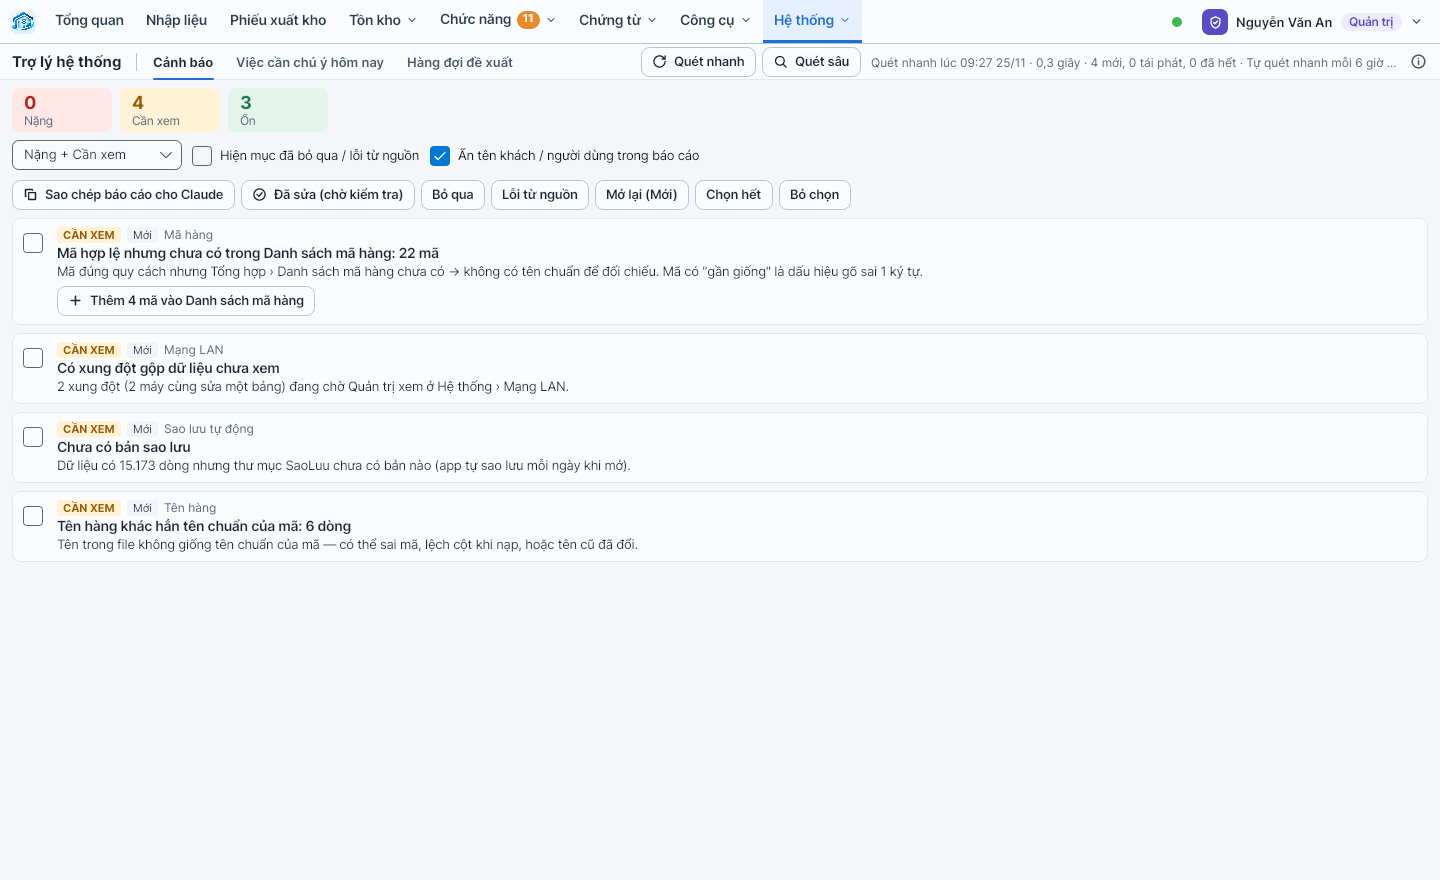
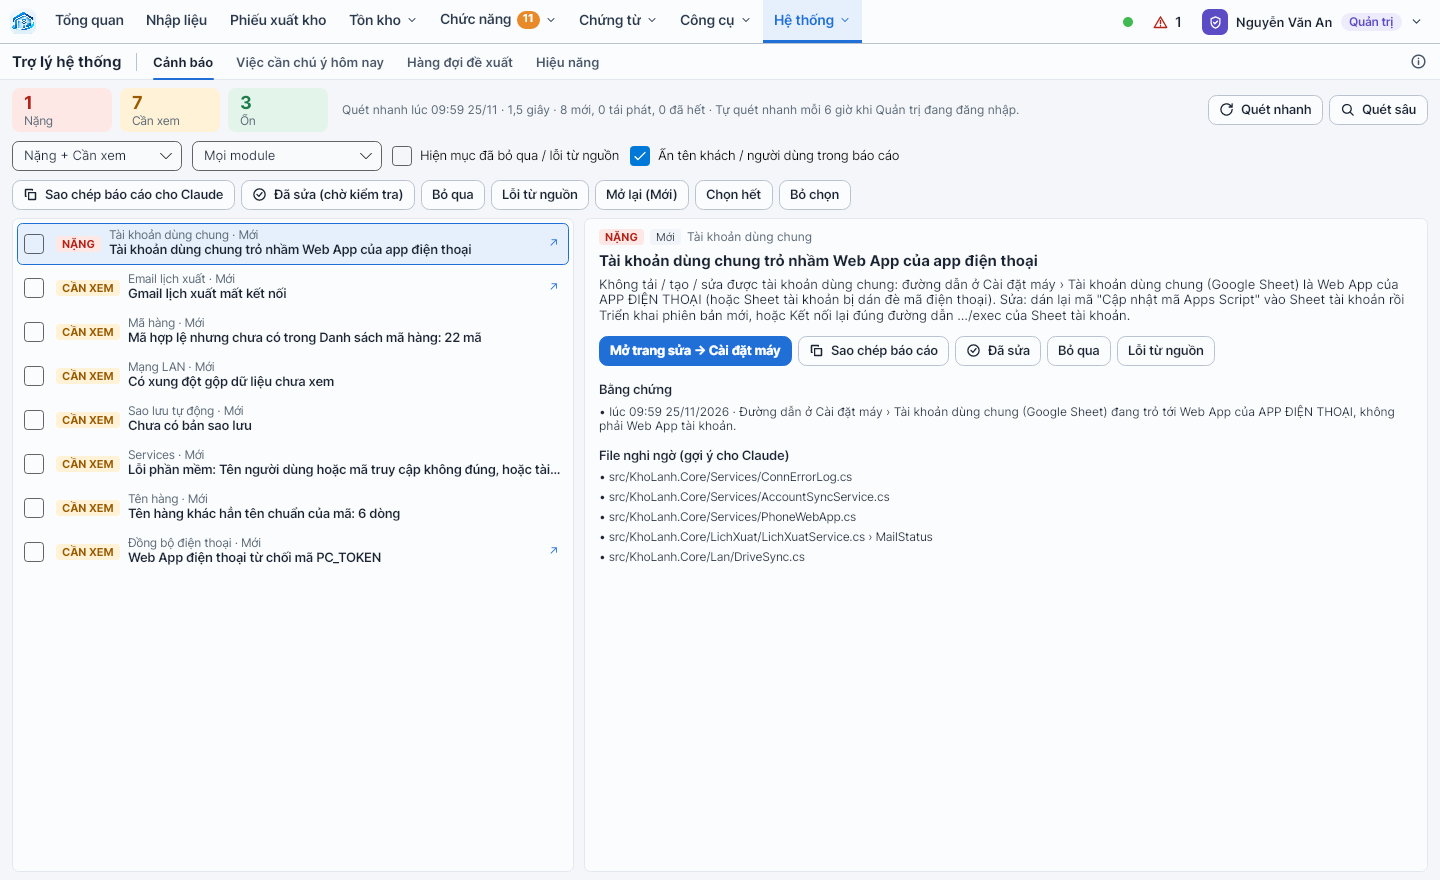
1.101.0: Trợ lý thông minh hơn (giai đoạn 3) — cấu hình kết nối, gộp lỗi theo nguyên nhân gốc, cảnh báo hiệu năng, Cảnh báo trái – chi tiết phải
- Kiểm tra cấu hình kết nối (Tài khoản dùng chung trỏ nhầm Web App điện thoại,
  PC_TOKEN sai, Gmail mất kết nối, thư mục Drive không còn) + nút Mở trang sửa.
- Gộp lỗi trùng theo nguyên nhân gốc (đếm số lần + các nơi phát sinh).
- Cảnh báo hiệu năng: CPU / RAM cao kéo dài, RAM KhoLanh bất thường, ổ sắp đầy,
  chậm dần sau cập nhật, mở app / đăng nhập chậm dần.
- Tab Cảnh báo: danh sách trái – chi tiết phải, lọc theo module; nút Quét ở
  hàng thẻ số (không còn bị ẩn ở 1366×768).

Claude-Session: https://claude.ai/code/session_01CcL5zKPX6MXqPbz7cZL3gY

diff --git a/src/KhoLanh.App/Views/TroLyView.CanhBao.cs b/src/KhoLanh.App/Views/TroLyView.CanhBao.cs
@@ -44,7 +44,13 @@ public sealed partial class TroLyView
         foreach (var c in filters.Children) c.VerticalAlignment = VerticalAlignment.Center;
 
         var findTop = new StackPanel { Spacing = 8, Margin = new Thickness(0, 0, 0, 8) };
-        findTop.Children.Add(_kpi); findTop.Children.Add(filters); findTop.Children.Add(actions);
+        var kpiRow = new DockPanel();   // 1.101: thẻ số + dòng trạng thái quét
+        var scan = new StackPanel { Orientation = Orientation.Horizontal, Spacing = 6, VerticalAlignment = VerticalAlignment.Center };
+        scan.Children.Add(_quick); scan.Children.Add(_deep);
+        DockPanel.SetDock(scan, Dock.Right); kpiRow.Children.Add(scan);
+        DockPanel.SetDock(_kpi, Dock.Left); kpiRow.Children.Add(_kpi);
+        _status.Margin = new Thickness(14, 0, 0, 0); _status.Tag = "keep"; kpiRow.Children.Add(_status);
+        findTop.Children.Add(kpiRow); findTop.Children.Add(filters); findTop.Children.Add(actions);
 
         // danh sách | chi tiết — danh sách hẹp hơn, chi tiết đủ chỗ đọc bằng chứng (màn hình 1366 px: ~520 | ~780)
         var left = new Border
@@ -177,7 +183,7 @@ public sealed partial class TroLyView
         var acts = new WrapPanel { ItemSpacing = 6, LineSpacing = 6, Margin = new Thickness(0, 6, 0, 2) };
         if (f.Go.Length > 0)
         {
-            var go = Btn("Mở trang sửa → " + f.GoLabel, () => MainWindow.Of(this)?.Navigate(f.Go), "Mở trang cài đặt liên quan để sửa cấu hình");
+            var go = Btn("Mở trang sửa → " + f.GoLabel, () => GoFix(f.Go), "Mở trang cài đặt liên quan để sửa cấu hình");
             go.Classes.Add("primary");
             acts.Children.Add(go);
         }
@@ -220,4 +226,17 @@ public sealed partial class TroLyView
     }
 
     private static TextBlock Section(string t) => new() { Text = t, FontWeight = FontWeight.SemiBold, FontSize = 12.5, Foreground = Dark, Margin = new Thickness(0, 8, 0, 0) };
+
+    /// <summary>1.101: "Mở trang sửa" — khóa menu thì chuyển trang; "#hieunang" thì sang tab Hiệu năng của Trợ lý.</summary>
+    private void GoFix(string go)
+    {
+        if (go == KhoLanh.Core.TroLy.TroLyService.GoHieuNang)
+        {
+            var tc = Avalonia.VisualTree.VisualExtensions.GetVisualDescendants(this).OfType<TabControl>()
+                .FirstOrDefault(t => t.Items.OfType<TabItem>().Any(i => KhoLanh.App.Controls.Icon.TextOf(i.Header) == "Hiệu năng"));
+            if (tc is not null) tc.SelectedItem = tc.Items.OfType<TabItem>().First(i => KhoLanh.App.Controls.Icon.TextOf(i.Header) == "Hiệu năng");
+            return;
+        }
+        MainWindow.Of(this)?.Navigate(go);
+    }
 }

diff --git a/src/KhoLanh.Core/TroLy/TroLyService.cs b/src/KhoLanh.Core/TroLy/TroLyService.cs
@@ -138,6 +138,7 @@ public sealed class TroLyService
         StepRun("Đồng bộ", () => f.AddRange(CheckSync(CollectSync(now))));
         StepRun("Cấu hình kết nối", () => f.AddRange(CheckConfig(CollectConfig())));
         StepRun("Thao tác chậm", () => f.AddRange(CheckSlow(Perf.Read(_dataDir, now))));
+        StepRun("Hiệu năng", () => f.AddRange(CheckPerf(now)));   // 1.101: CPU / RAM cao kéo dài, ổ sắp đầy, chậm dần sau cập nhật
 
         var st = LoadState();
         var fin = Sort(f);
@@ -460,6 +461,24 @@ public sealed class TroLyService
             if (dr.LastOk != default) info.DriveOkAgeMin = (now - dr.LastOk).TotalMinutes;
         }
         return info;
+    }
+
+    /// <summary>1.101: cảnh báo hiệu năng từ hieu-nang.db (bộ đo ngầm) + logs/cham.log 30 ngày. Chưa có số liệu thì không cảnh báo.</summary>
+    /// <summary>Khóa "trang sửa" đặc biệt: chuyển sang tab Hiệu năng của chính Trợ lý (không phải khóa menu).</summary>
+    public const string GoHieuNang = "#hieunang";
+    internal List<Finding> CheckPerf(DateTime now)
+    {
+        var res = new List<Finding>();
+        var path = Path.Combine(_dataDir, PerfStore.FileName);
+        var st = PerfMonitor.Current?.Store ?? (File.Exists(path) ? new PerfStore(path) : null);
+        if (st is not null)
+        {
+            res.AddRange(PerfChecks.CheckMachine(st.Range(now.AddHours(-1), now, 120), st.Latest(), now));
+            res.AddRange(PerfChecks.CheckStartupTrend(st.Marks(null, now.AddDays(-30)), now));
+        }
+        res.AddRange(PerfChecks.CheckSlowAfterUpdate(Perf.Read(_dataDir, now, 30)));
+        foreach (var x in res) if (x.Go.Length == 0) { x.Go = GoHieuNang; x.GoLabel = "tab Hiệu năng"; }
+        return res;
     }
 
     /// <summary>Cấu hình kết nối của máy: Tài khoản dùng chung, Web App điện thoại, Gmail lịch xuất, thư mục Drive dùng chung (CHỈ ĐỌC).</summary>

diff --git a/src/KhoLanh.App/Views/TroLyView.cs b/src/KhoLanh.App/Views/TroLyView.cs
@@ -49,11 +49,8 @@ public sealed partial class TroLyView : UserControl, IPage
         _filter.SelectionChanged += (_, _) => Render();
         _showSkipped.IsCheckedChanged += (_, _) => Render();
 
-        var top = new DockPanel();
-        var scanBtns = new StackPanel { Orientation = Orientation.Horizontal, Spacing = 6 };
-        scanBtns.Children.Add(_quick); scanBtns.Children.Add(_deep);
-        DockPanel.SetDock(scanBtns, Dock.Left); top.Children.Add(scanBtns);
-        _status.Margin = new Thickness(10, 0, 0, 0); top.Children.Add(_status);
+        // 1.101: nút Quét nhanh / Quét sâu + dòng trạng thái quét nằm ở hàng thẻ số của tab Cảnh báo (trước đặt trên hàng tên trang →
+        // ở 1366×768 không vừa nên bị ẩn mất)
 
         var chuYBox = Card("Việc cần chú ý hôm nay", _chuY, Btn("⟳", () => LoadChuY(), "Đọc lại"));
 
@@ -76,10 +73,8 @@ public sealed partial class TroLyView : UserControl, IPage
         tabs.Items.Add(new TabItem { Header = "Hiệu năng", Content = new HieuNangView() });   // 1.100: CPU / RAM / ổ đĩa / mạng, thao tác chậm, dung lượng dữ liệu
         tabs.SelectionChanged += (_, e) => { if (e.Source == tabs && tabs.SelectedItem == qTab) LoadQueue(); };
 
-        var head = new StackPanel { Spacing = 10, Margin = new Thickness(0, 0, 0, 8) };
-        head.Children.Add(top);   // thẻ số Nặng / Cần xem / Ổn nằm đầu tab Cảnh báo (1 hàng ở đây được kéo lên ngang tên trang)
         var body = new DockPanel();
-        DockPanel.SetDock(head, Dock.Top); body.Children.Add(head); body.Children.Add(tabs);
+        body.Children.Add(tabs);
         Content = body;
 
         Svc.Scanned += OnScanned;

diff --git a/CLAUDE.md b/CLAUDE.md
@@ -41,6 +41,7 @@ App quản lý kho lạnh **viết lại bằng C#** (.NET 8, Avalonia, SQLite) 
 | 1.39 | Tự tạo List / phiếu theo Lịch xuất (`PNX_AutoLog` dùng chung app cũ) | `LichXuat/LichXuatAuto.cs`, `PhieuKho/PhieuKhoAuto.cs` |
 | 1.40 | Danh mục mã hàng (quyền `m3dm`) | `DanhMuc/` |
 | 1.41 | Kiểm kê nhanh (tab đầu Đối chiếu kiểm kê) | `KiemKe/KkNhanh.cs`, `Views/KiemKeView.Nhanh.cs` |
+| 1.101 | Trợ lý giai đoạn 3 (luồng 2 agent worktree + luồng chính): `Services/ConnErrorLog` (settings `acct_last_error` / `phone_last_error`, ghi khi gọi lỗi, xóa khi thành công) ghi ở `AccountSyncService.PullAsync/CallAsync`, `PhoneWebApp.CallAsync`; `TroLyChecks.CheckConfig(ConfigInfo)` (`TroLyService.CollectConfig`, bước quét "Cấu hình kết nối") + `Finding.Go` / `GoLabel` (khóa menu trang sửa; `TroLyService.GoHieuNang` = "#hieunang" → tab Hiệu năng); `ParseErrorLog` gộp theo `RootCause` / `NormMsg` (id lỗi phần mềm đổi → lần quét đầu sau cập nhật lỗi cũ thành Đã đóng + Mới); `PerfChecks` (CheckMachine / CheckSlowAfterUpdate / CheckStartupTrend, bước quét "Hiệu năng" `TroLyService.CheckPerf`); `TroLyView` partial + `TroLyView.CanhBao.cs` (danh sách trái – chi tiết phải, lọc module, thẻ số + trạng thái + nút quét 1 hàng) | `ConnErrorLog.cs`, `TroLyChecks.cs`, `TroLyService.cs`, `PerfChecks.cs`, `TroLyView(.CanhBao).cs`, test `TroLyTests` (+3), `HieuNangTests` (+1), chụp `SHOTS_ONLY=he` (`he-tro-ly`, `he-tro-ly-1366`) |
 | 1.100 | Hiệu năng giai đoạn 1 + 2: lõi `TroLy/PerfStore` (SQLite `hieu-nang.db` trong thư mục dữ liệu: bảng `samples` mỗi phút + `marks` mốc thời gian; `Range` gộp ≤ N điểm theo khoảng đều, `Prune` 30 ngày, `Stat` trung vị) + `PerfLevel` (ngưỡng vàng / đỏ) · `PerfProbe` (CPU: Windows GetSystemTimes / Linux /proc/stat; KhoLanh: TotalProcessorTime; RAM: GlobalMemoryStatusEx / /proc/meminfo; ổ: DriveInfo; độ trễ: thời gian mở TCP) · `PerfMonitor` (Timer 1 phút, độ trễ mỗi 5 lượt tới `LanService.ServerAddress` + www.google.com:443, `Mark` / `MarkOp` — `Perf.Scope` gọi cho Đồng bộ LAN / Drive / điện thoại; `App.StartPerf` ở `App.Start`, mốc mở app = Process.StartTime → cửa sổ đăng nhập hiện, đăng nhập = bấm → cửa sổ chính) · `DbStats` (module_sheets theo db_key / sheet, sheet_history, audit_log) · giao diện `Views/HieuNangView` (tab Hiệu năng của TroLyView) + `Controls/PerfChart` (tự vẽ, đứt nét khi máy tắt) | `PerfStore.cs`, `PerfProbe.cs`, `PerfMonitor.cs`, `DbStats.cs`, `HieuNangView.cs`, `PerfChart.cs`, test `HieuNangTests`, chụp `SHOTS_ONLY=v200` (tự kiểm, Sáng + Tối) |
 | 1.99 | Xuất file không tự mở: `Ui.Exported(visual, path)` (thông báo `WindowNotificationManager` góc phải dưới, 10 s, bấm → `Ui.ShowInFolder` = explorer /select; khung thông báo mới tạo chờ `TemplateApplied` mới Show) thay 44 chỗ `Ui.OpenExternal` sau khi xuất; còn `OpenExternal` cho nút người dùng bấm + trang In (`PrintVia`, In chứng từ, phiếu NXT) · Trợ lý: trang = DockPanel (thanh quét kéo lên ngang tên trang) + tab Cảnh báo (thẻ số, lọc, danh sách có thanh cuộn riêng MinHeight 360) / Việc cần chú ý hôm nay / Hàng đợi · `AccountSyncService.PrefetchAsync` đánh dấu đã xem lỗi (ContinueWith OnlyOnFaulted) — cửa sổ đăng nhập `_ = PrefetchAsync()` lỗi → UnobservedTaskException | `Ui.cs`, 26 View, `TroLyView.cs`, `AccountSyncService.cs`, test `Tai_ngam_loi_khong_thanh_loi_chua_bat`, chụp `SHOTS_ONLY=v199` (tự kiểm) |
 | 1.98 | Cài đặt máy: `LegacyCard` chỉ Quản trị (+ chặn ở `OnImportLegacy`), bỏ khung liên kết Dữ liệu & sao lưu · bỏ chế độ máy ở nhà: `DriveSyncService.IsHome/SetHome` → `ClearOldHomeFlag` (xóa settings `drive_home` khi lưu chu kỳ), `BecomeMain` / `DrivePlanSync` không còn chặn theo cờ, quyền `drivepush` đổi nhãn "máy xem từ xa" · `AccountSyncService.CallAsync`: trả lời dạng Code.gs điện thoại (`code` AUTH / "người quản lý app PC") → `PhoneScriptMsg` (đường dẫn Tài khoản dùng chung trỏ nhầm Web App điện thoại) | `BackupView.axaml(.cs)`, `DriveSync.cs`, `DriveSyncView.cs`, `AccountSyncService.cs`, test `Duong_dan_tro_nham_Web_App_dien_thoai_bao_ro_cach_sua` |
@@ -115,6 +116,7 @@ App quản lý kho lạnh **viết lại bằng C#** (.NET 8, Avalonia, SQLite) 
 
 ## Nhật ký tiến độ
 (Ghi theo mẫu: ngày · việc · bản · đã làm · còn thiếu / lưu ý · file chính.)
+- 25/11/2026 · Trợ lý giai đoạn 3 · 1.101.0 · luồng 2 (agent, nhánh worktree-agent-…, commit 71657bc trên 1.99) làm kiểm tra cấu hình kết nối + gộp lỗi theo nguyên nhân gốc + Cảnh báo trái – chi tiết phải; luồng chính cherry-pick lên 1.100, nối `PerfChecks` vào lượt quét, chuyển nút Quét + dòng trạng thái xuống hàng thẻ số (trên hàng tên trang thì ở 1366×768 bị ẩn). Còn: báo cáo cho Claude chưa ghi trang sửa (`Go`); Tài khoản dùng chung chỉ ghi lỗi của lệnh tải danh sách + lỗi trỏ nhầm Web App; chưa thử Google thật. Giai đoạn 4 tiếp: tự kiểm lại "Đã sửa" sau 24–48 giờ (lỗi phần mềm so thời điểm lỗi cuối với lúc bấm Đã sửa — cần thêm thời điểm vào phát hiện gộp), Sửa nhanh, thông báo lỗi Nặng, quét sau cập nhật + Quay lại bản trước.
 - 25/11/2026 · Hiệu năng + Trợ lý theo giai đoạn · 1.100.0 (giai đoạn 1 + 2) · người dùng giao kế hoạch 5 giai đoạn (1 thu số liệu · 2 tab Hiệu năng phương án A · 3 Trợ lý thông minh hơn · 4 xử lý nhanh + thông báo · 5 nhiều máy + lịch sử), mỗi giai đoạn 1 bản, tự gộp / phát hành; "tạo 2 luồng song song". Luồng 2 (agent worktree) làm giai đoạn 3 phần không cần số liệu hiệu năng (kiểm tra cấu hình kết nối, gộp lỗi trùng theo nguyên nhân gốc, Cảnh báo trái – chi tiết phải + lọc module); phần cảnh báo hiệu năng của giai đoạn 3 dùng `PerfStore` / `PerfLevel`. Lưu ý: số mẫu chỉ có khi app đang mở; máy cũ chưa có `hieu-nang.db` thì tab trống tới phút đầu tiên.
 - 25/11/2026 · Không tự mở file + Trợ lý gọn + lỗi tác vụ nền · 1.99.0 · người dùng: "file excel, ảnh, pdf xuất ra không được tự động mở, vì khi mở file cũ bị chạy vì đã sắp xếp, người dùng tự mở" + (ảnh Trợ lý) "bảng cảnh báo quá nhỏ" + báo cáo Trợ lý "A Task's exception(s) were not observed … AccountSyncService.PullAsync" (cùng gốc lỗi Web App điện thoại ở 1.98). Muốn thêm chỗ xuất file mới: gọi `Ui.Exported(this, path)`, KHÔNG `OpenExternal`.
 - 25/11/2026 · Sắp xếp Hệ thống + lỗi tạo tài khoản · 1.98.0 · người dùng: "cài đặt máy: chép dữ liệu app cũ chỉ quản trị, sao lưu/khôi phục đã có bên Dữ liệu & sao lưu nên xóa; (2) đồng bộ từ điện thoại → hỏi lại: giữ nguyên; (3) bỏ chế độ máy ở nhà vì đã có Drive cá nhân" + ảnh "vì sao không tạo tài khoản được" (lỗi "Chưa lưu được lên Google Sheet… Tên người dùng hoặc mã truy cập không đúng… Liên hệ người quản lý app PC" = câu của `kholanh-csharp-mobile/apps-script/Code.gs` dòng 186 → đường dẫn `acct_url` máy đó là Web App điện thoại, hoặc Sheet tài khoản bị dán đè Code.gs). Cách sửa cho người dùng: dán lại mã "Cập nhật mã Apps Script" vào Sheet tài khoản + Phiên bản mới, hoặc Kết nối đúng …/exec; hoặc Ngắt kết nối để tạo tài khoản chỉ trên máy.

diff --git a/README.md b/README.md
@@ -61,6 +61,7 @@ App đang được dựng lại theo từng module (từ bản 1.7.0 đã gỡ c
 | Đăng nhập & cập nhật nhanh (1.59) | Danh sách tài khoản (Google Sheet) **tải ngầm ngay khi mở cửa sổ đăng nhập**; bấm Đăng nhập chỉ chờ tối đa ~1,5 giây rồi vào bằng bản lưu trong máy (tài khoản mới tạo / vừa đổi mật khẩu ở máy khác thì mới chờ danh sách mới). Danh sách về sau khi đã vào mà tài khoản bị khóa / đổi mật khẩu → báo và đăng xuất. Sau khi tự cập nhật: không hỏi GitHub lần nữa, sao lưu hằng ngày chạy ngầm, tiến trình thay exe chờ ngắn hơn, KhoLanh.exe biên dịch sẵn (ReadyToRun) nên mở nhanh hơn. |
 | Tài khoản điện thoại (1.76) | App điện thoại mới đăng nhập bằng **đúng tên + mật khẩu PC**. Quyền điện thoại đặt riêng ở **Hệ thống › Tài khoản › Điện thoại** (dùng trên điện thoại, vai trò Chỉ xem / Tạo phiếu / Quản lý / Quản trị, kho được dùng) rồi bấm **Lưu và đẩy lên điện thoại** (mỗi lần đồng bộ điện thoại cũng tự đẩy). Mật khẩu điện thoại tự cập nhật khi người đó đăng nhập PC / đổi mật khẩu — ai chưa đăng nhập PC từ bản này cần đăng nhập PC 1 lần. Tài khoản tạo riêng trên điện thoại vẫn giữ. |
 | Phím ESC (1.81) | Nhấn **ESC** để quay lại màn hình trước (nhớ tối đa 3 màn hình), hết thì về **Tổng quan**. Đang sửa ô bảng / mở danh sách lọc / hộp thoại thì ESC vẫn làm việc của chỗ đó; đang gõ trong ô chữ thì ESC đầu chỉ rời ô. |
+| Trợ lý thông minh hơn (1.101) | **Kiểm tra cấu hình kết nối**: Tài khoản dùng chung trỏ nhầm Web App điện thoại (Nặng), tải tài khoản lỗi, PC_TOKEN sai / đồng bộ điện thoại lỗi, Gmail lịch xuất mất kết nối, thư mục Drive dùng chung không còn (Nặng) — mỗi cảnh báo có nút **Mở trang sửa** đúng trang. **Gộp lỗi trùng theo nguyên nhân gốc** (bỏ lớp "A Task's exception(s)…", số, đường dẫn) → 1 cảnh báo, đếm số lần + các nơi phát sinh. **Cảnh báo hiệu năng**: CPU / RAM cao kéo dài 30 phút, KhoLanh giữ RAM bất thường, ổ sắp đầy, thao tác chậm dần sau cập nhật, mở app / đăng nhập chậm dần. Tab Cảnh báo: **danh sách trái – chi tiết phải**, lọc theo module; nút Quét nhanh / Quét sâu ở hàng thẻ số (hiện cả ở 1366×768) ([ảnh](docs/anh/16-tro-ly-he-thong.png), [1366](docs/anh/16d-tro-ly-1366.png)). |
 | Hiệu năng (1.100) | Hệ thống › Trợ lý hệ thống › tab **Hiệu năng**: bộ đo chạy ngầm mỗi phút (CPU cả máy + KhoLanh, RAM, ổ trống của ổ chứa dữ liệu, độ trễ LAN / Google mỗi 5 phút), lưu `hieu-nang.db` riêng từng máy (không đồng bộ, không sao lưu), tự xóa dữ liệu cũ hơn 30 ngày. Trang gồm 4 thẻ số CPU / RAM / Ổ đĩa / Mạng (vàng / đỏ khi vượt ngưỡng), biểu đồ CPU / RAM theo 1 giờ · 24 giờ · 7 ngày · 30 ngày, Hiệu suất app (thời gian mở app / đăng nhập / đồng bộ, thao tác chậm nhất dạng thanh theo logs/cham.log) và Dữ liệu (dung lượng database, theo module, bảng lớn nhất) ([ảnh](docs/anh/16b-hieu-nang.png), [Tối](docs/anh/16c-hieu-nang-toi.png)). |
 | Không tự mở file xuất (1.99) | Xuất Excel / ảnh / PDF / thư mục xong **không tự mở file nữa** (mở file cũ làm chạy lại sắp xếp) — chỉ hiện thông báo nhỏ góc phải dưới "Đã lưu file …", tự ẩn sau 10 giây, bấm vào thì mở thư mục chứa file (chọn sẵn file) ([ảnh](docs/anh/48-da-luu-file.png)). Nút "Mở file / Mở thư mục" và trang **In** vẫn mở như cũ. **Trợ lý hệ thống**: danh sách cảnh báo cao hết trang (thẻ số + bộ lọc ở đầu tab Cảnh báo; "Việc cần chú ý hôm nay" thành tab riêng) ([ảnh](docs/anh/16-tro-ly-he-thong.png)); sửa lỗi "Tác vụ nền lỗi — A Task's exception(s) were not observed" khi tải ngầm danh sách tài khoản thất bại. |
 | Sắp xếp Hệ thống (1.98) | **Cài đặt máy**: "Chép dữ liệu từ app cũ" chỉ hiện cho Quản trị; bỏ khung "Sao lưu, khôi phục, đồng bộ LAN / Drive" (trùng Hệ thống › Dữ liệu & sao lưu). **Bỏ chế độ "máy ở nhà"** (Dữ liệu & sao lưu › Thư mục / Drive dùng chung: khung nay chỉ còn Chu kỳ đồng bộ — sao lưu riêng dùng Drive cá nhân). Đồng bộ điện thoại giữ nguyên. **Tạo tài khoản báo lỗi "Tên người dùng hoặc mã truy cập không đúng… Liên hệ người quản lý app PC"**: đó là câu của Web App app ĐIỆN THOẠI → đường dẫn Tài khoản dùng chung trỏ nhầm (hoặc Sheet tài khoản bị dán đè mã điện thoại); app nay báo rõ nguyên nhân và cách sửa. |
